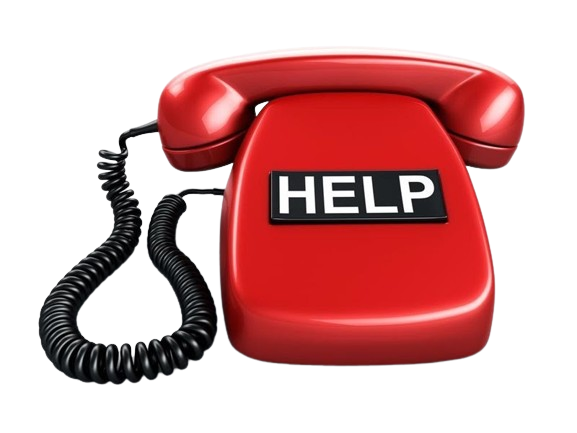
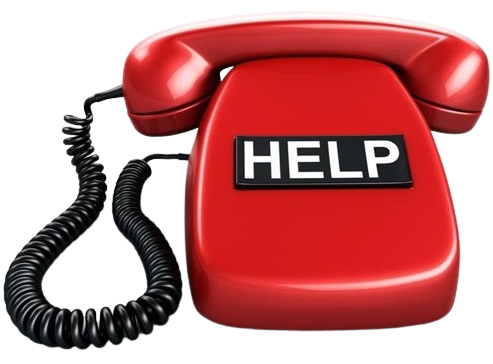
bg image change

diff --git a/css/style.css b/css/style.css
@@ -307,7 +307,7 @@ header .mobile-menu ul li .mobile-dropdown .mobile-dropdown-content a:hover {
 /* ========= banner css start ========== */
 .banner-content {
   padding-top: 35px;
-  max-width: 950px;
+  max-width: 980px;
   width: 100%;
   height: 300px;
   display: flex;
@@ -331,18 +331,18 @@ header .mobile-menu ul li .mobile-dropdown .mobile-dropdown-content a:hover {
 /* ========= about css start ========== */
 .about-content {
   padding: 30px 0;
-  max-width: 950px;
+  max-width: 980px;
   width: 100%;
 }
 
 .about-content .help-image {
-  min-width: 150px;
-  min-height: 140px;
+  min-width: 160px;
 }
 
 .about-content .help-image img {
   width: 100%;
-  height: 100%;
+  height: auto;
+  margin-top: 15px;
 }
 
 .about-content .about-contact-content h5 {
@@ -655,7 +655,7 @@ header .mobile-menu ul li .mobile-dropdown .mobile-dropdown-content a:hover {
 /* ========= qr code css start ========== */
 .qr_code_section {
   padding: 50px 15px;
-  max-width: 950px;
+  max-width: 980px;
   width: 100%;
 }
 
@@ -695,18 +695,18 @@ footer {
 
 footer .footer-content {
   padding-top: 30px;
-  max-width: 950px;
+  max-width: 980px;
   width: 100%;
 }
 
 footer .footer-content .help-image {
-  min-width: 150px;
-  min-height: 140px;
+  min-width: 160px;
 }
 
 footer .footer-content .help-image img {
   width: 100%;
-  height: 100%;
+  height: auto;
+  margin-top: 15px;
 }
 
 footer .footer-content .footer-contact-content h5 {

diff --git a/css/price.css b/css/price.css
@@ -11,7 +11,7 @@
 }
 .price-area {
   padding-top: 30px;
-  max-width: 950px;
+  max-width: 980px;
   width: 100%;
 }
 .common-padding {

diff --git a/css/service.css b/css/service.css
@@ -23,7 +23,7 @@
 
 .service-area {
   padding-top: 30px;
-  max-width: 950px;
+  max-width: 980px;
   width: 100%;
 }
 .mb-15 {
